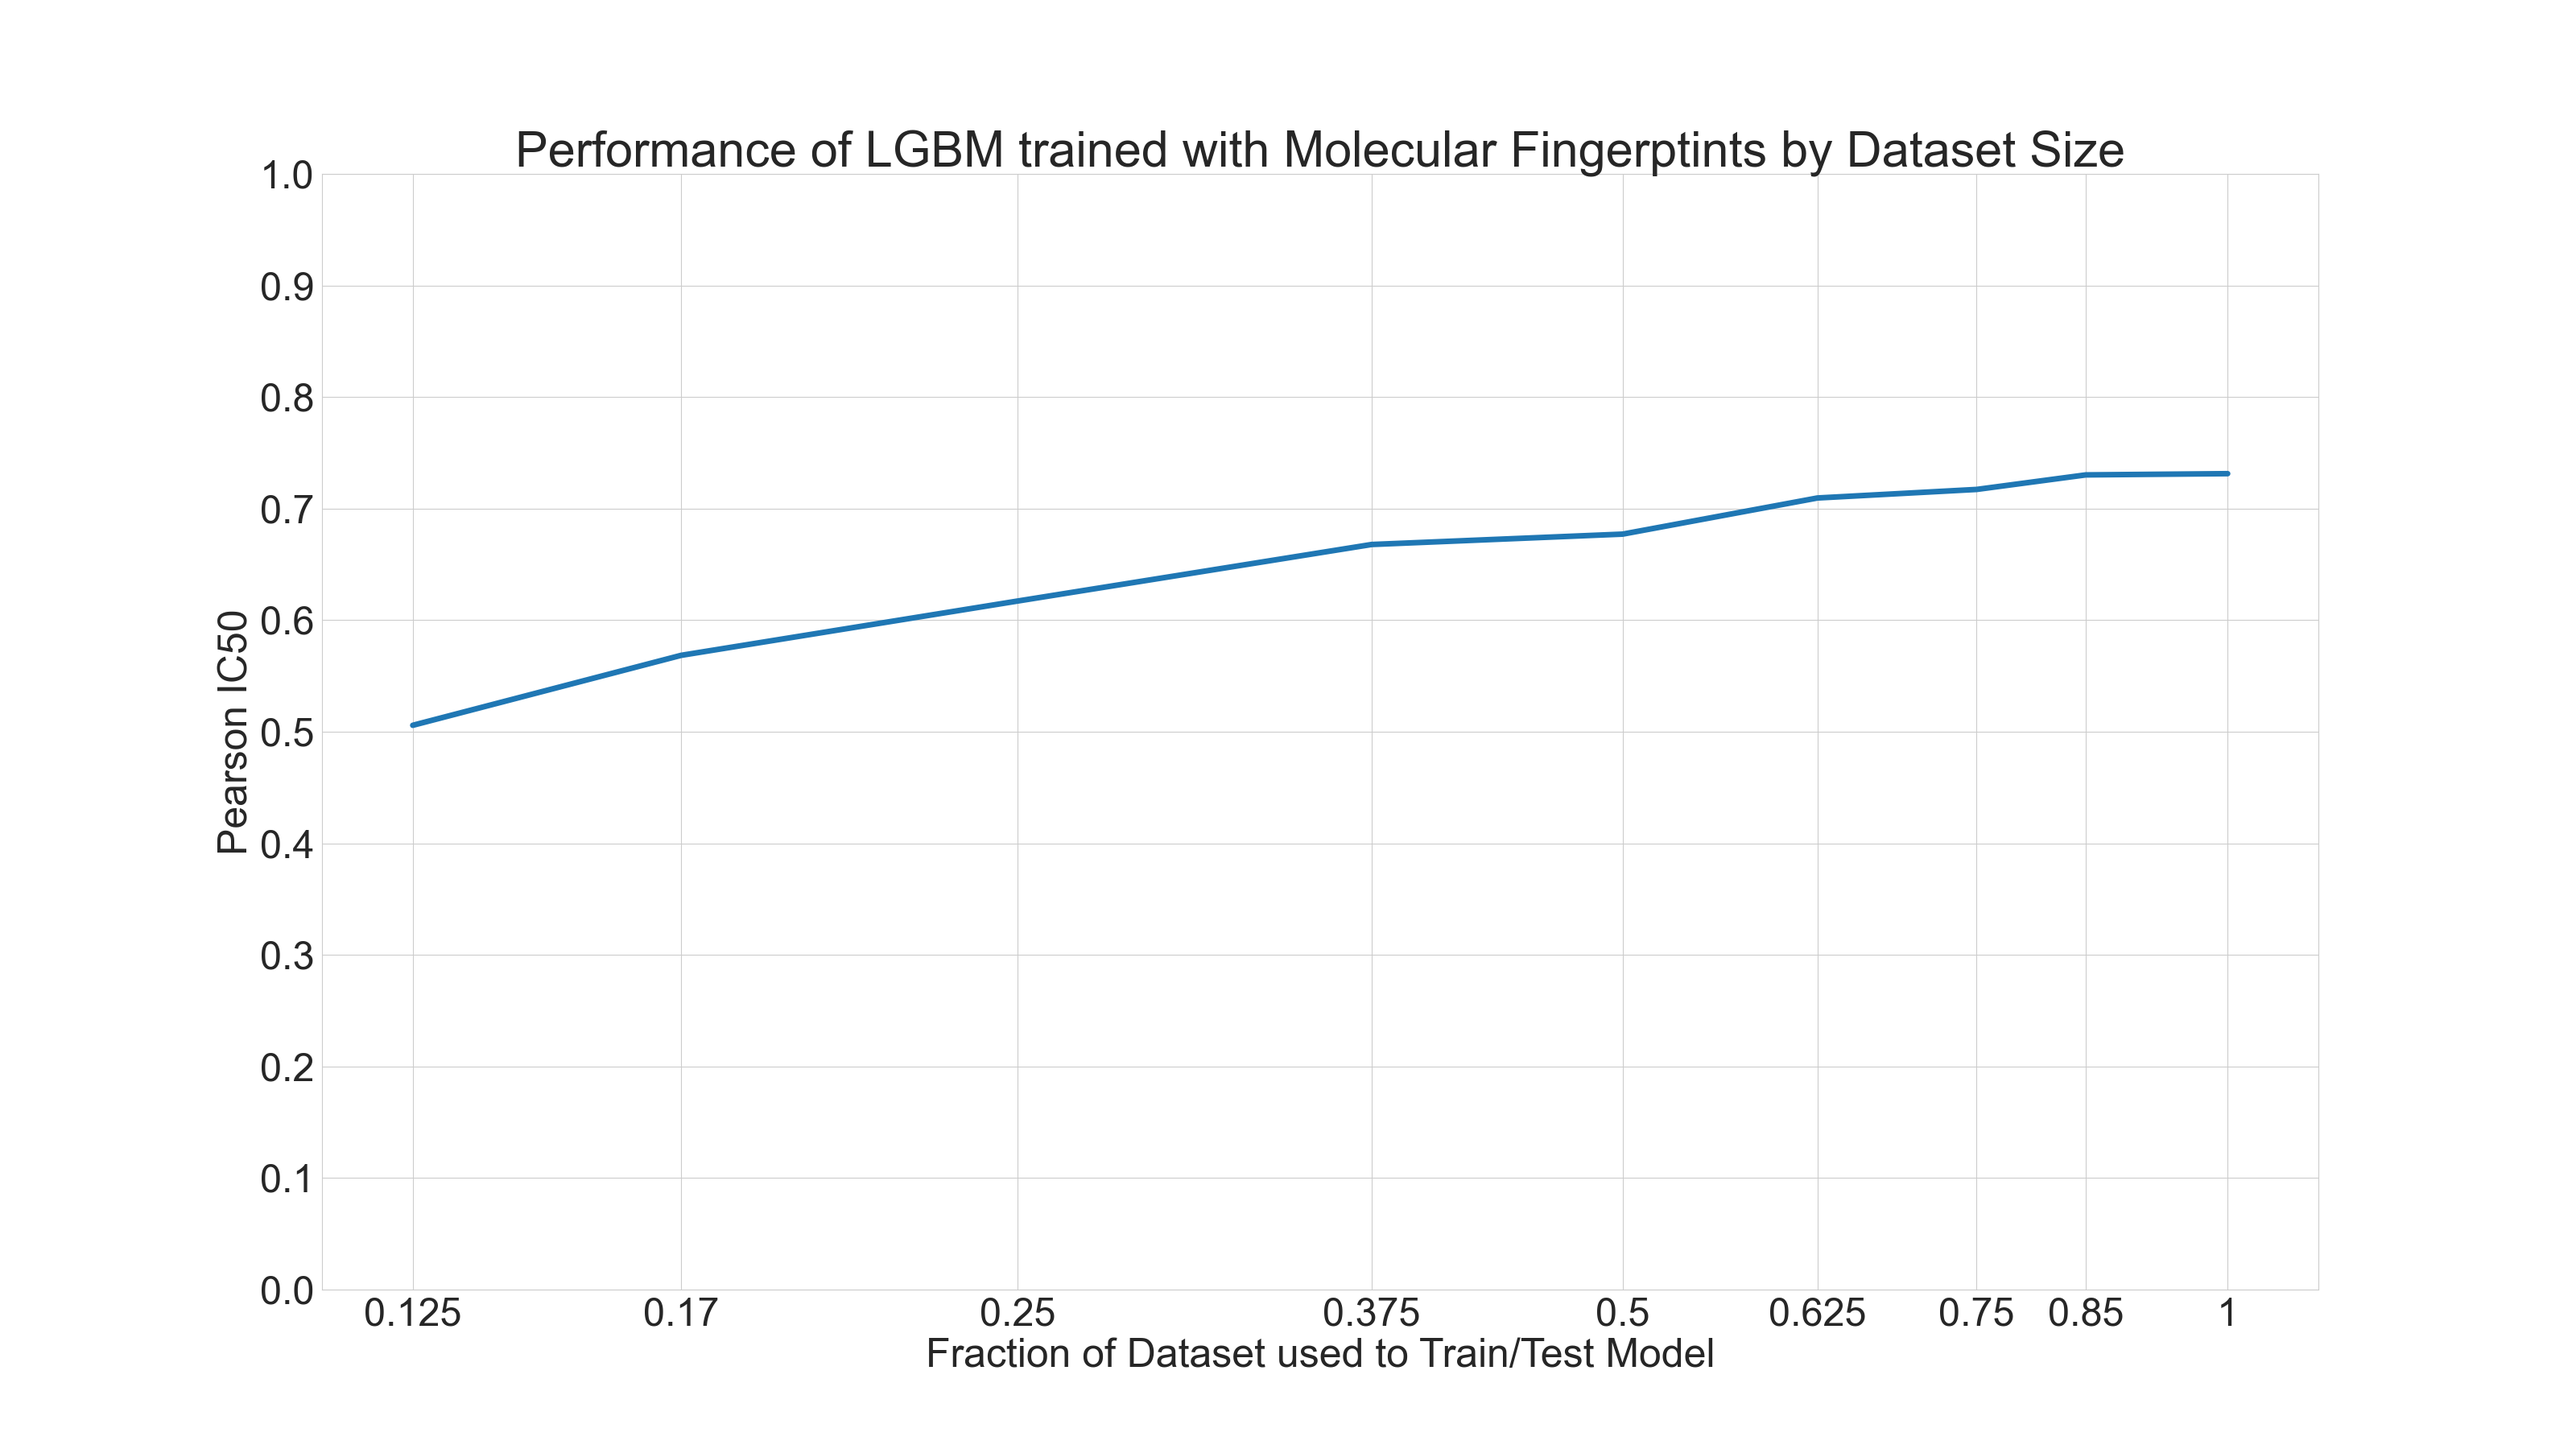
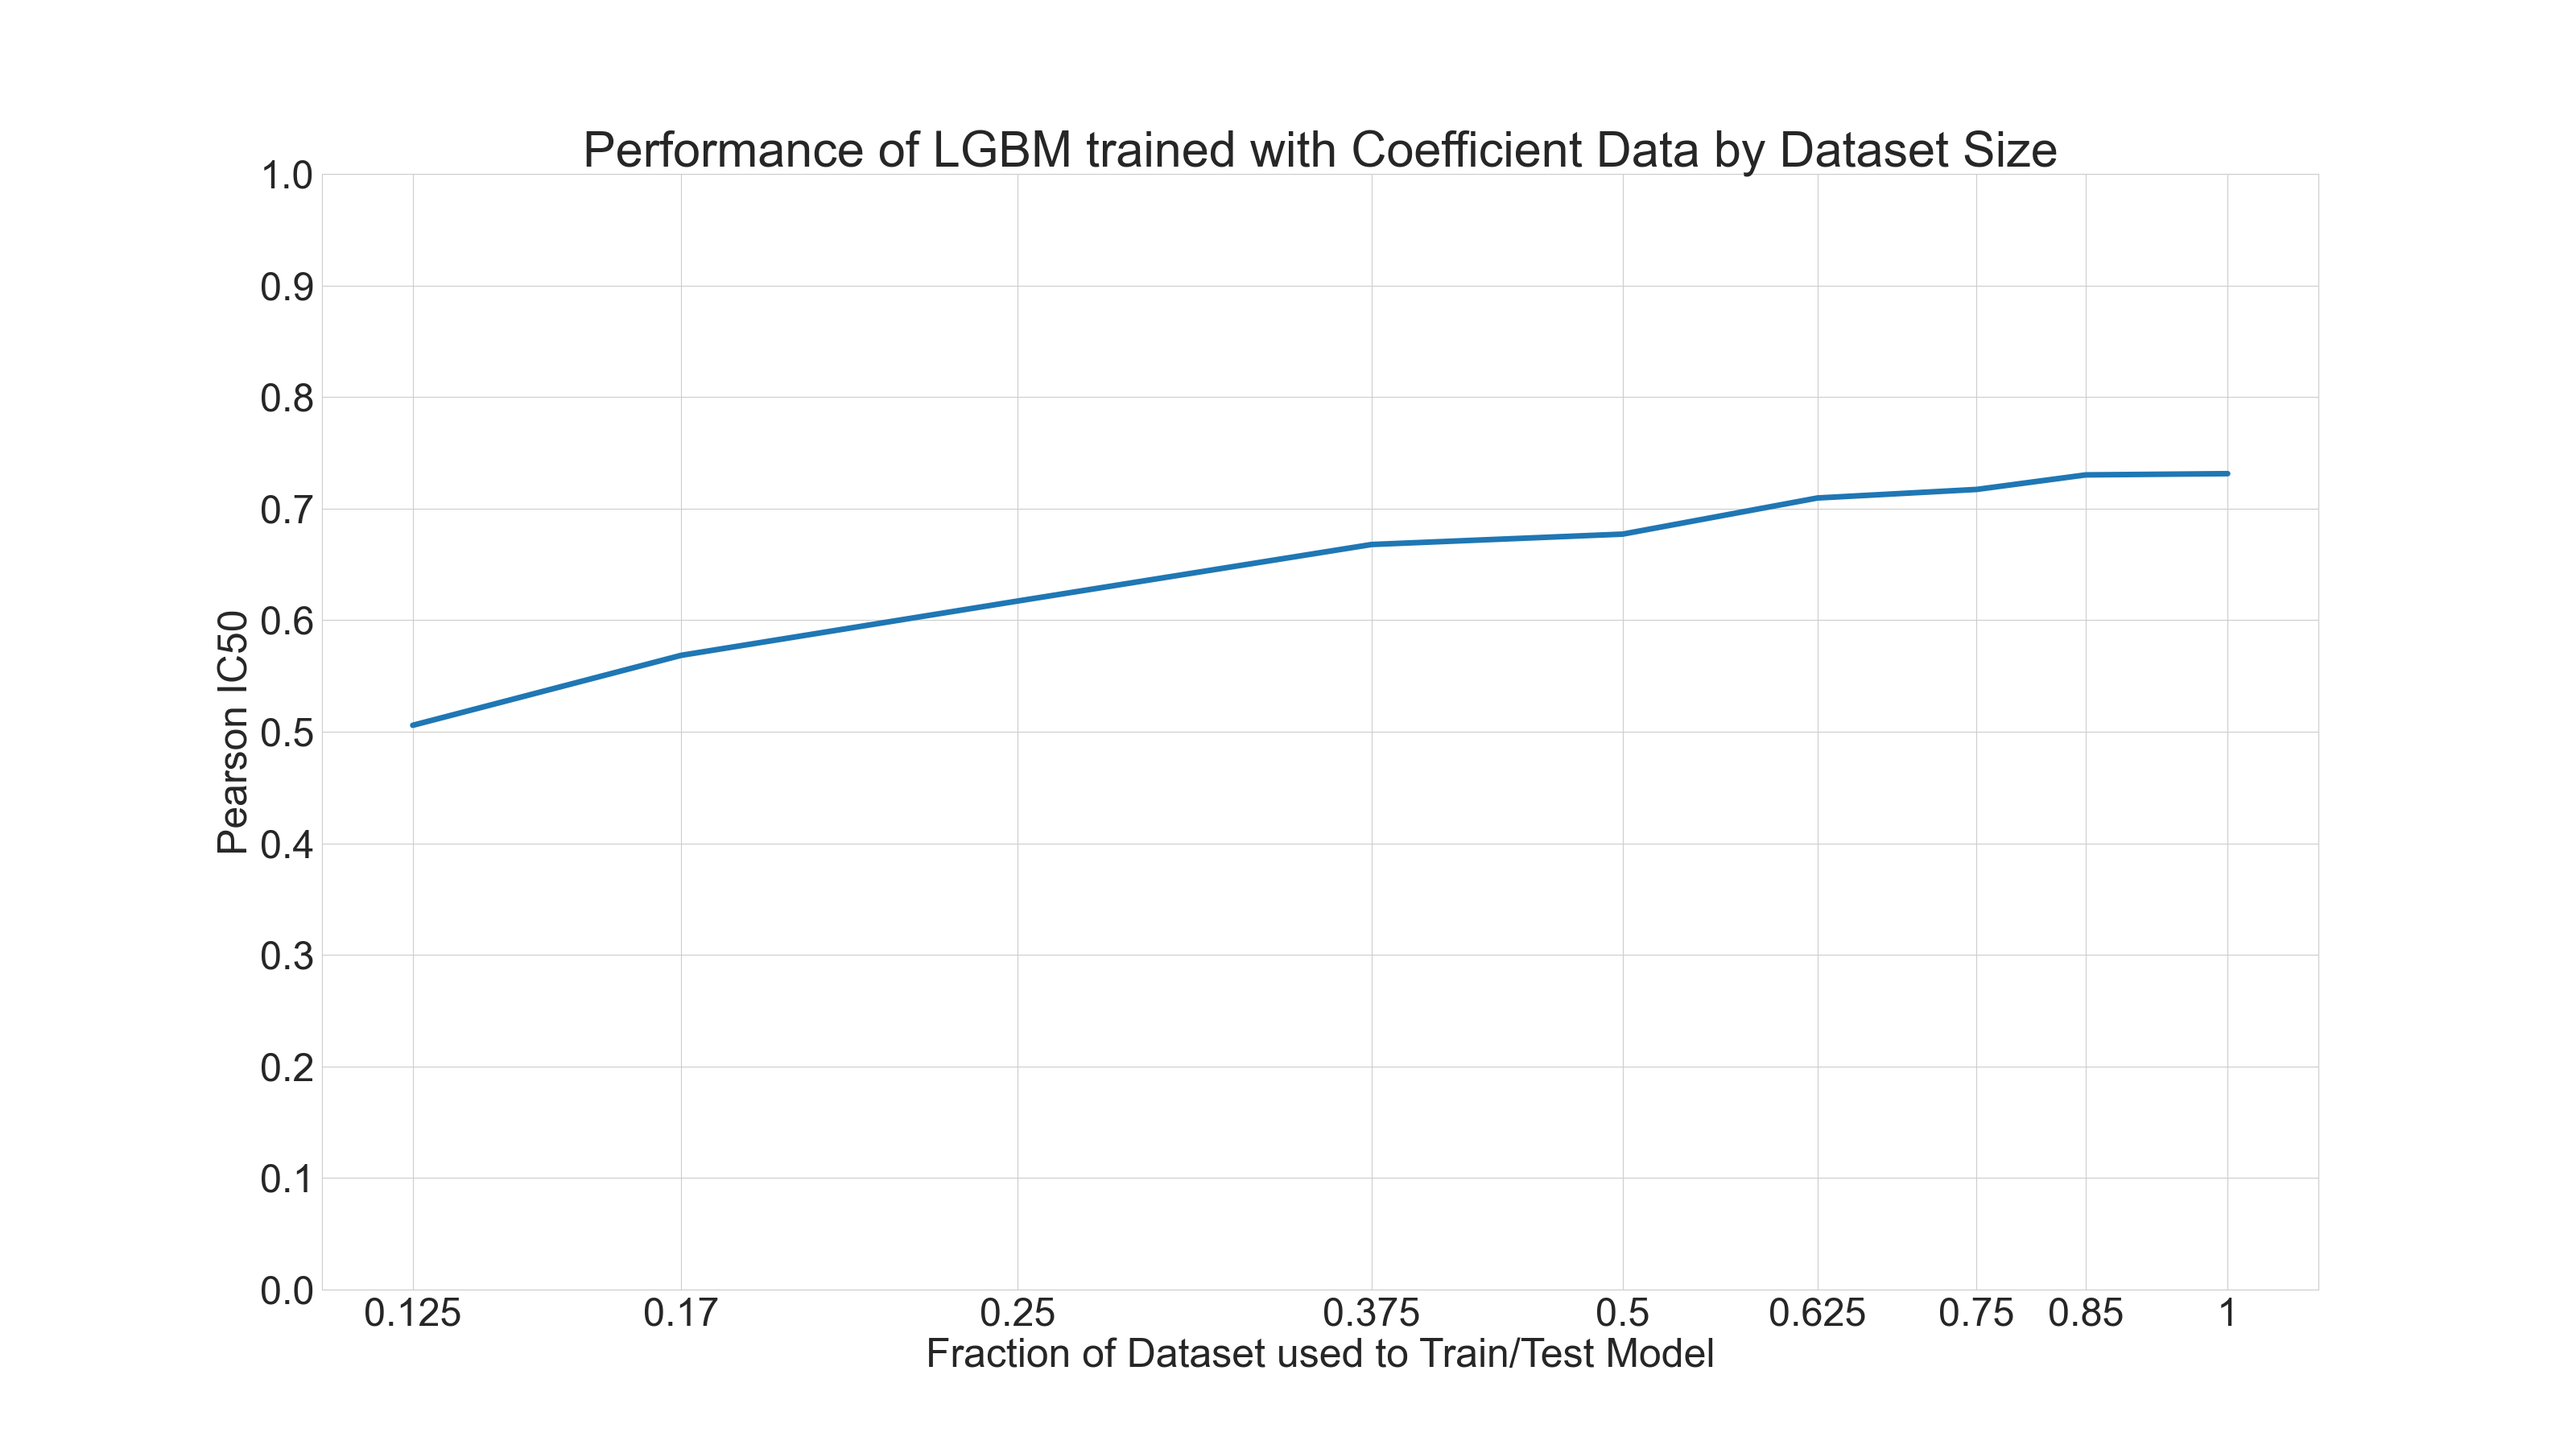
results

Changed region(s): [[0.1875, 0.0933, 0.8438, 0.1244]]

diff --git a/fullPackage/sensitivityAnalysis.py b/fullPackage/sensitivityAnalysis.py
@@ -7,6 +7,8 @@ import seaborn as sns
 import matplotlib.pyplot as plt
 import matplotlib
 import numpy as np
+import tensorflow as tf
+from tensorflow import keras
 
 #predictionPaths = [Path(__file__).parent / 'predictions' / 'final' / 'lgbm' / 'lgbmrun70regularplusDrugs.csv', Path(__file__).parent / 'predictions' / 'final' / 'lgbm' / 'lgbmrun71regularplusDrugs.csv', Path(__file__).parent / 'predictions' / 'final' / 'lgbm' / 'lgbmrun72regularplusDrugs.csv', Path(__file__).parent / 'predictions' / 'final' / 'lgbm' / 'lgbmrun73regularplusDrugs.csv', Path(__file__).parent / 'predictions' / 'final' / 'lgbm' / 'lgbmrun74regularplusDrugs.csv', Path(__file__).parent / 'predictions' / 'final' / 'lgbm' / 'lgbmrun75regularplusDrugs.csv', Path(__file__).parent / 'predictions' / 'final' / 'lgbm' / 'lgbmrun76regularplusDrugs.csv', Path(__file__).parent / 'predictions' / 'final' / 'lgbm' / 'lgbmrun77regularplusDrugs.csv', Path(__file__).parent / 'predictions' / 'final' / 'lgbm' / 'lgbmrun78regularplusDrugs.csv', Path(__file__).parent / 'predictions' / 'final' / 'lgbm' / 'lgbmrun79regularplusDrugs.csv', Path(__file__).parent / 'predictions' / 'final' / 'lgbm' / 'lgbmrun710regularplusDrugs.csv', Path(__file__).parent / 'predictions' / 'final' / 'lgbm' / 'lgbmrun711regularplusDrugs.csv']
 #sensitivitySizeFractions = [0.01, 0.03, 0.06, 0.125, 0.17, 0.25, 0.375, 0.5, 0.625, 0.75, 0.85, 1] #sizes used for training (used to plot the model)
@@ -84,7 +86,7 @@ for metricName in ['Pearson IC50', 'Spearman IC50', 'R2 IC50', 'Spearman Emax', 
     matplotlib.rc('font', size=35)
     matplotlib.rc('axes', titlesize=35)
     plt.xlabel("Fraction of Dataset used to Train/Test Model", size=36)
-    plt.title('Performance of LGBM trained with Molecular Fingerprints by Dataset Size', size=44)
+    plt.title('Performance of LGBM trained with Coefficient Data by Dataset Size', size=44)
     plt.ylabel(metricName, size=36)
     plot.ticklabel_format(style='plain')
     plot.set(xscale='log')
@@ -97,3 +99,85 @@ for metricName in ['Pearson IC50', 'Spearman IC50', 'R2 IC50', 'Spearman Emax', 
     plt.savefig(graphsFolder / fileName)
     plt.close()
 
+
+
+
+#taken from https://keras.io/examples/keras_recipes/sample_size_estimate/
+def fit_and_predict(train_acc, sample_sizes, pred_sample_size):
+    
+    """Fits a learning curve to model training accuracy results.
+
+    Arguments:
+        train_acc: List/Numpy Array, training accuracy for all model
+                    training splits and iterations.
+        sample_sizes: List/Numpy array, number of samples used for training at
+                    each split.
+        pred_sample_size: Int, sample size to predict model accuracy based on
+                        fitted learning curve.
+    """
+    x = sample_sizes
+    mean_acc = [np.mean(i) for i in train_acc]
+    error = [np.std(i) for i in train_acc]
+
+    # Define mean squared error cost and exponential curve fit functions
+    mse = keras.losses.MeanSquaredError()
+
+    def exp_func(x, a, b):
+        return a * x ** b
+
+    # Define variables, learning rate and number of epochs for fitting with TF
+    a = tf.Variable(0.0)
+    b = tf.Variable(0.0)
+    learning_rate = 0.01
+    training_epochs = 5000
+
+    # Fit the exponential function to the data
+    for epoch in range(training_epochs):
+        with tf.GradientTape() as tape:
+            y_pred = exp_func(x, a, b)
+            cost_function = mse(y_pred, mean_acc)
+        # Get gradients and compute adjusted weights
+        gradients = tape.gradient(cost_function, [a, b])
+        a.assign_sub(gradients[0] * learning_rate)
+        b.assign_sub(gradients[1] * learning_rate)
+    print(f"Curve fit weights: a = {a.numpy()} and b = {b.numpy()}.")
+
+    # We can now estimate the accuracy for pred_sample_size
+    max_acc = exp_func(pred_sample_size, a, b).numpy()
+
+    # Print predicted x value and append to plot values
+    print(f"A model accuracy of {max_acc} is predicted for {pred_sample_size} samples.")
+    x_cont = np.linspace(x[0], pred_sample_size, 100)
+
+    matplotlib.rc('font', size=35)
+    matplotlib.rc('axes', titlesize=35)
+
+    # Build the plot
+    fig, ax = plt.subplots(figsize=(12, 6))
+
+    ax.errorbar(x, mean_acc, yerr=error, fmt="o", label="Mean acc & std dev.")
+    ax.plot(x_cont, exp_func(x_cont, a, b),  "r-", linewidth='6',label="Fitted exponential curve.")
+    ax.set_ylabel("Pearson IC50.", fontsize=36)
+    ax.set_xlabel("Training sample size.", fontsize=36)
+    ax.set_xticks(np.append(x, pred_sample_size))
+    ax.set_yticks(np.append(mean_acc, max_acc))
+    ax.set_xticklabels(list(np.append(x, pred_sample_size)), rotation=90, fontsize=20)
+    ax.yaxis.set_tick_params(labelsize=20)
+    ax.set_title("Pearson's r IC50 vs sample size.", fontsize=34)
+    ax.legend(loc=(0.75, 0.75), fontsize=30)
+    ax.xaxis.grid(True)
+    ax.yaxis.grid(True)
+    matplotlib.rc('font', size=35)
+    matplotlib.rc('axes', titlesize=35)
+
+    plt.tight_layout()
+    plt.show()
+
+    # The mean absolute error (MAE) is calculated for curve fit to see how well
+    # it fits the data. The lower the error the better the fit.
+    mse = keras.losses.MeanSquaredError()
+    print(f"The mae for the curve fit is {mse(mean_acc, exp_func(x, a, b)).numpy()}.")
+
+
+# We use the whole training set to predict the model accuracy
+fit_and_predict(fullStatsDF['Pearson IC50'].to_numpy(), sensitivitySizeFractions, pred_sample_size=2)

diff --git a/fullPackage/trainModel.py b/fullPackage/trainModel.py
@@ -35,7 +35,7 @@ from sklearn import tree
 
 ###########PARAMETERS
 omicsType = 'crispr' #ge (gene expression), crispr, proteomics
-modelName = 'lgbm'  #en, rf, lgbm, svr, xgboost, base, ridge, dl, dlCoeffs, dlFull, dlCNN, dlMixed
+modelName = 'dlCoeffs'  #en, rf, lgbm, svr, xgboost, base, ridge, dl, dlCoeffs, dlFull, dlCNN, dlMixed
 crossValidationMode = 'regular' #drug, cell, regular
 tunerTrials = 30 #how many trials the tuner will do for hyperparameter optimization
 tunerRun = 106 #increase if you want to start the hyperparameter optimization process anew
@@ -793,17 +793,18 @@ def trainTestModel(sens=False, sensRun=0):
 
                 # Build the model with the optimal hyperparameters and train it on the data for 65 epochs
                 model = tuner.hypermodel.build(bestHP)
-                history = model.fit(XTrain, y_train, epochs=65, validation_split=0.2)
+                history = model.fit(XTrain, y_train, epochs=63, validation_split=0.2)
 
-                valLossPerEpoch = history.history['val_loss']
-                bestEpoch = valLossPerEpoch.index(min(valLossPerEpoch)) + 1
-                print('Best epoch: %d' % (bestEpoch,))
-                hypermodel = tuner.hypermodel.build(bestHP)
+                #valLossPerEpoch = history.history['val_loss']
+                #bestEpoch = valLossPerEpoch.index(min(valLossPerEpoch)) + 1
+                #print('Best epoch: %d' % (bestEpoch,))
+                #hypermodel = tuner.hypermodel.build(bestHP)
                 # Retrain the model -> i could just save the model instead maybe?
-                hypermodel.fit(XTrain, y_train, epochs=bestEpoch, validation_split=0.2)
+                #hypermodel.fit(XTrain, y_train, epochs=bestEpoch, validation_split=0.2)
                 #####################################################
                 ######################################################
-                ypred = np.squeeze(hypermodel.predict(XTest, batch_size=64))
+                #ypred = np.squeeze(hypermodel.predict(XTest, batch_size=64))
+                ypred = np.squeeze(history.predict(XTest, batch_size=64))
 
 
 

diff --git a/fullPackage/src/graphFunctions.py b/fullPackage/src/graphFunctions.py
@@ -148,4 +148,3 @@ def stackedbarplot(df, saveGraphsFolder, metricName):
         os.mkdir(saveGraphsFolder / 'IC50')
     plt.savefig(saveGraphsFolder / 'IC50' / fileName)
     plt.close()
-
